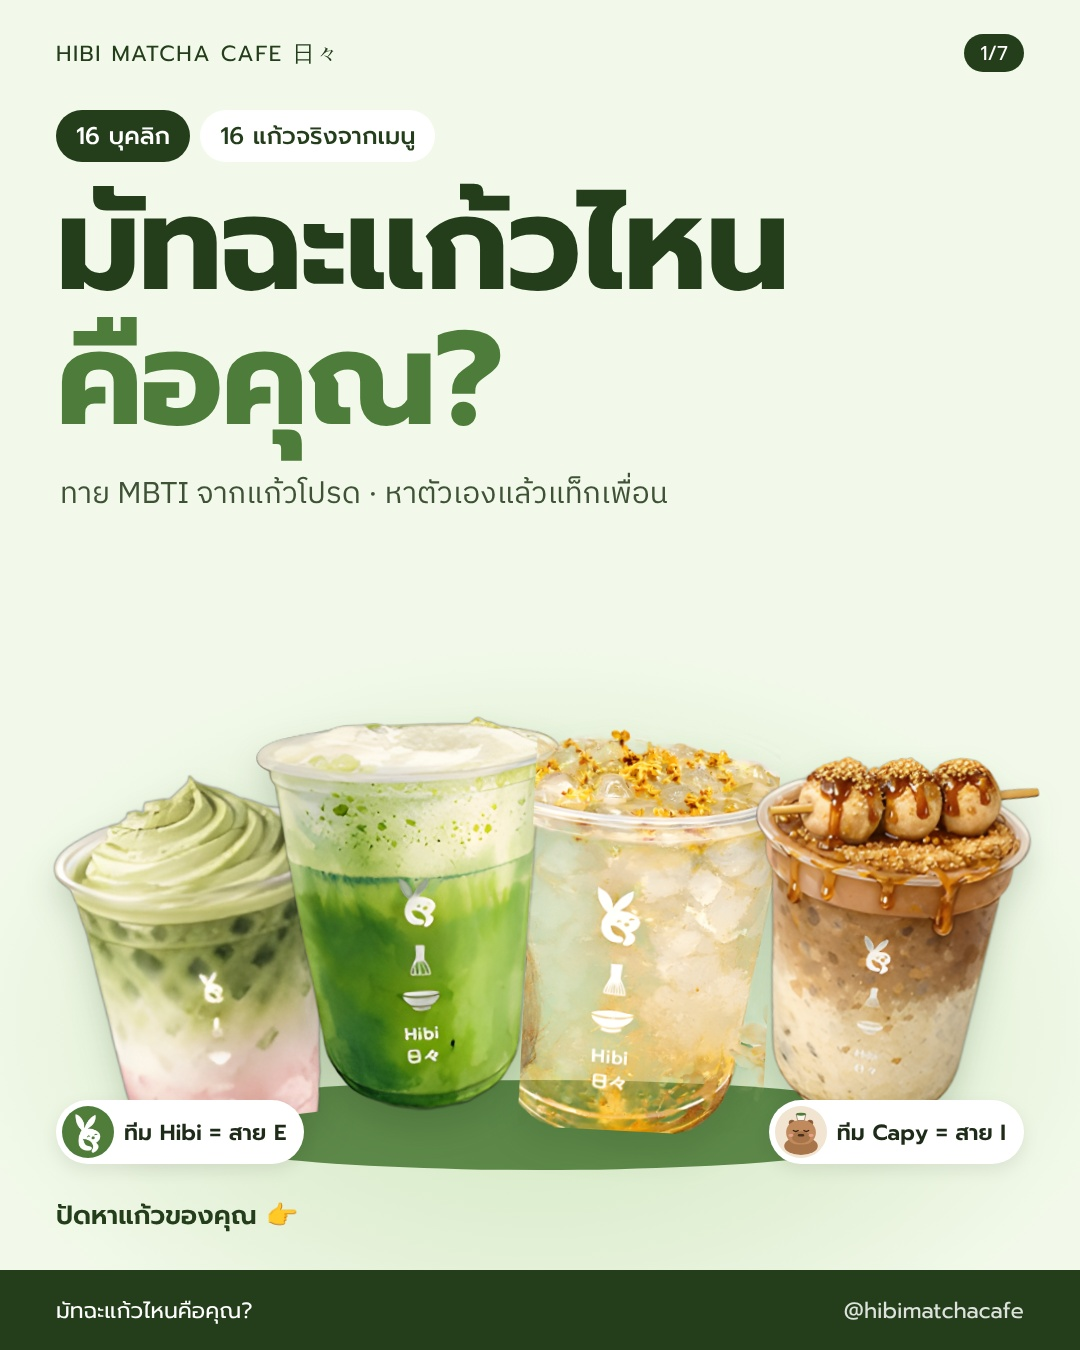
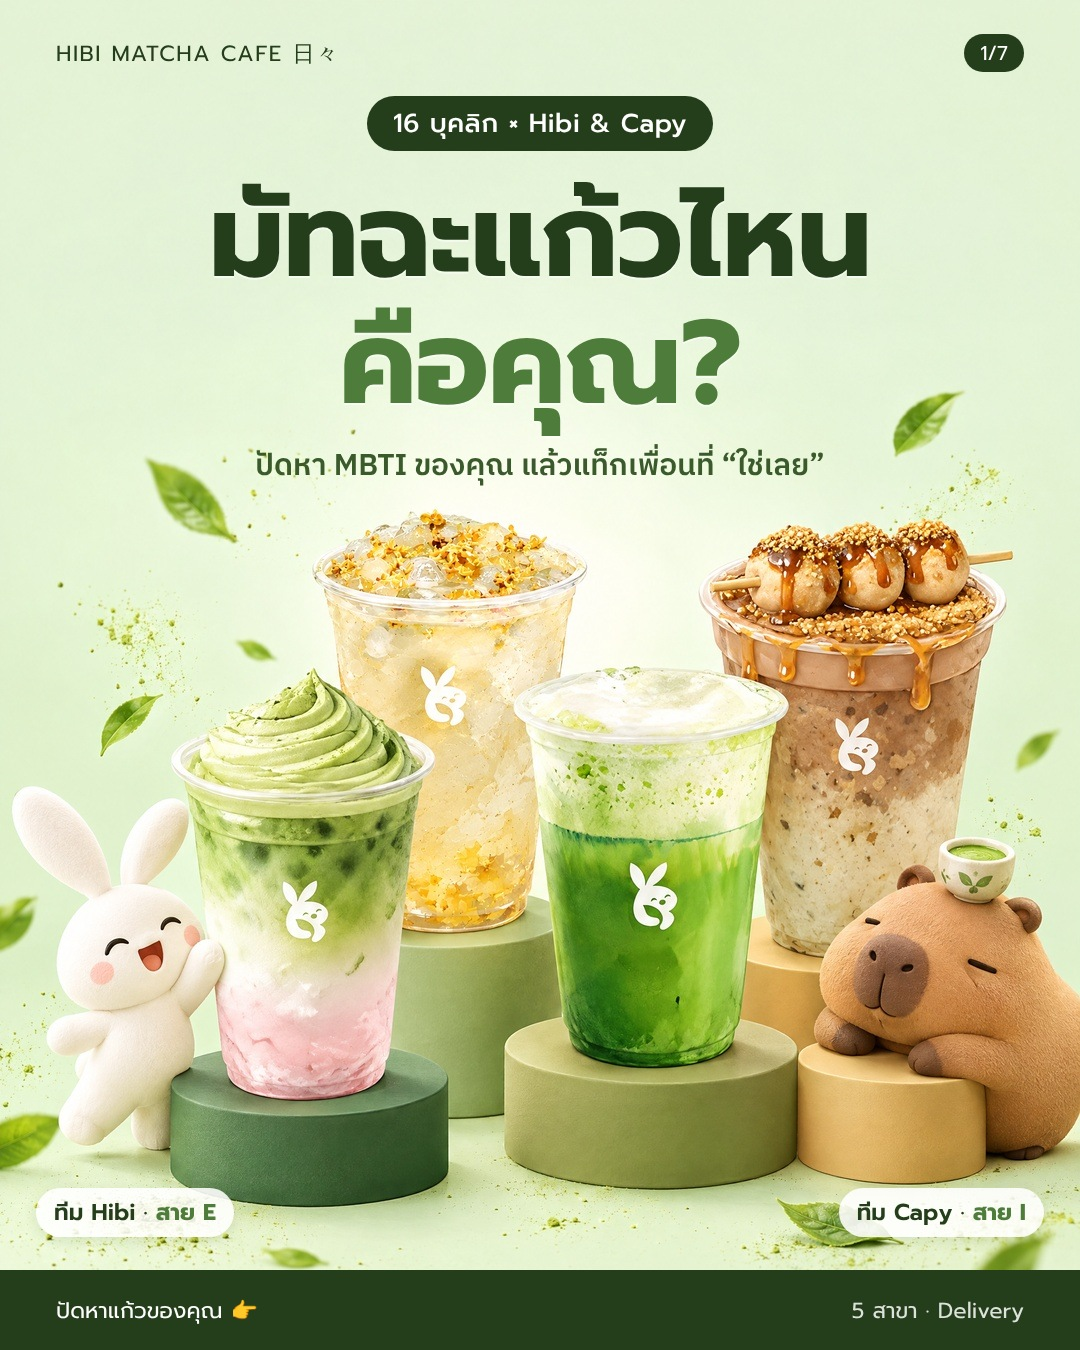
MBTI carousel: redesign cover with Higgsfield 3D scene + Thai title overlay
Claude-Session: https://claude.ai/code/session_019v9CAxCxqD3EqyHWdLwpMA

diff --git a/docs/content-plan/campaigns/mbti-carousel/cover_src/build_cover.py b/docs/content-plan/campaigns/mbti-carousel/cover_src/build_cover.py
@@ -1,0 +1,30 @@
+import re, subprocess
+from PIL import Image
+src = open("build2.py").read()
+ns = {"__file__": __import__("os").path.abspath("build2.py")}
+exec(src.split("def avatar")[0], ns)
+CSS = ns["CSS"]
+Image.open("hf/d04a928f-dedc-4486-9a30-481666ba2d6a.png").resize((1080,1350), Image.LANCZOS).save("hf/bg.jpg", quality=95)
+html = f"""<!doctype html><html><head><meta charset="utf-8"><style>{CSS}
+body{{background:url('file://{__import__('os').getcwd()}/hf/bg.jpg') center/cover}}
+.wrap{{position:absolute;top:96px;left:0;right:0;text-align:center}}
+.chip{{display:inline-block;background:#243e1b;color:#fff;font-family:'Prompt';font-weight:500;font-size:26px;padding:8px 26px;border-radius:40px;letter-spacing:.5px}}
+h1{{font-family:'Prompt';font-weight:700;color:#243e1b;font-size:118px;line-height:1.08;margin-top:22px;letter-spacing:-1px;text-shadow:0 2px 0 rgba(255,255,255,.6)}}
+h1 em{{font-style:normal;color:#4e7c3a}}
+.sub{{font-family:'Plex';font-weight:600;font-size:30px;color:#3a5a2c;margin-top:14px}}
+.team{{position:absolute;top:1188px;font-family:'Prompt';font-weight:600;font-size:23px;padding:7px 18px;border-radius:30px;background:rgba(255,255,255,.88);color:#243e1b;box-shadow:0 4px 14px rgba(36,62,27,.12)}}
+.team b{{color:#4e7c3a}}
+</style></head><body>
+<div class="top"><span>HIBI MATCHA CAFE 日々</span><span class="pg">1/7</span></div>
+<div class="wrap">
+ <span class="chip">16 บุคลิก × Hibi &amp; Capy</span>
+ <h1>มัทฉะแก้วไหน<br><em>คือคุณ?</em></h1>
+ <div class="sub">ปัดหา MBTI ของคุณ แล้วแท็กเพื่อนที่ “ใช่เลย”</div>
+</div>
+<div class="team" style="left:36px">ทีม Hibi · <b>สาย E</b></div>
+<div class="team" style="right:36px">ทีม Capy · <b>สาย I</b></div>
+<div class="foot"><span>ปัดหาแก้วของคุณ 👉</span><span class="r">5 สาขา · Delivery</span></div>
+</body></html>"""
+open("hf/cover.html","w").write(html)
+subprocess.run(["/opt/pw-browsers/chromium","--headless=new","--no-sandbox","--hide-scrollbars","--window-size=1080,1500","--screenshot=hf/cover_raw.png","file://"+__import__('os').getcwd()+"/hf/cover.html"],capture_output=True)
+Image.open("hf/cover_raw.png").convert("RGB").crop((0,0,1080,1350)).save("hf/HIBI_MBTI_01.jpg",quality=93)
